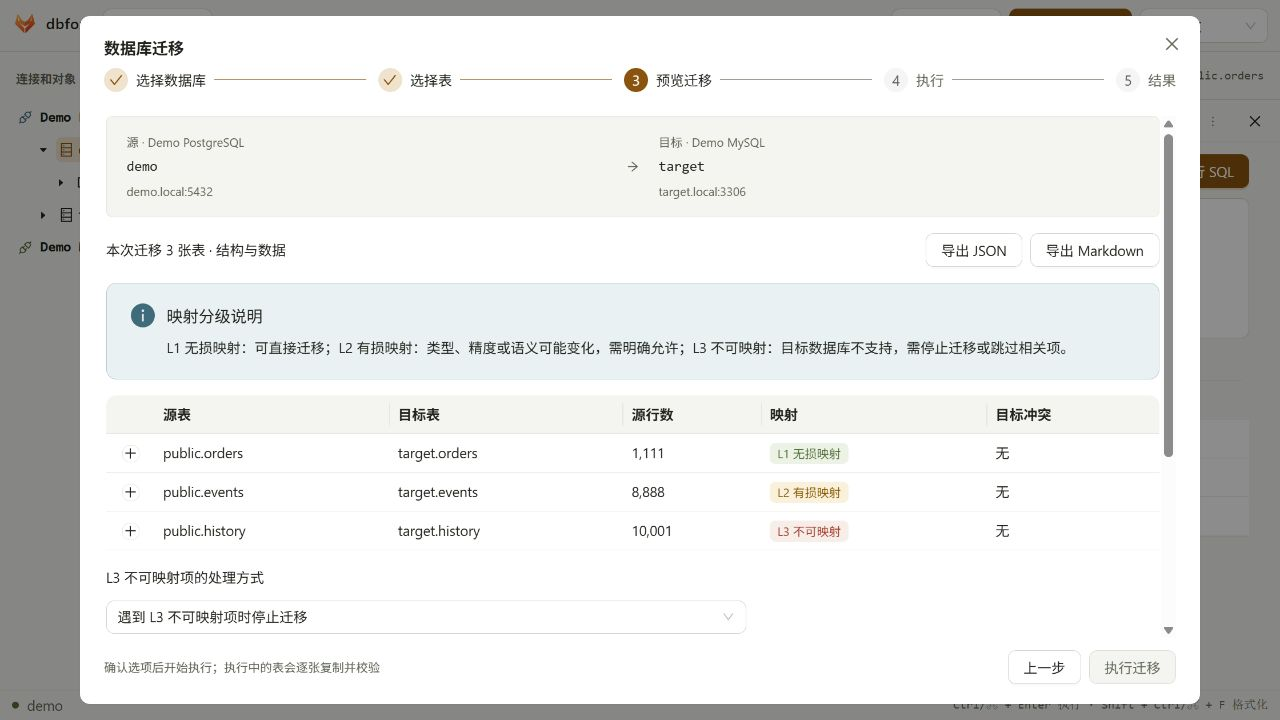
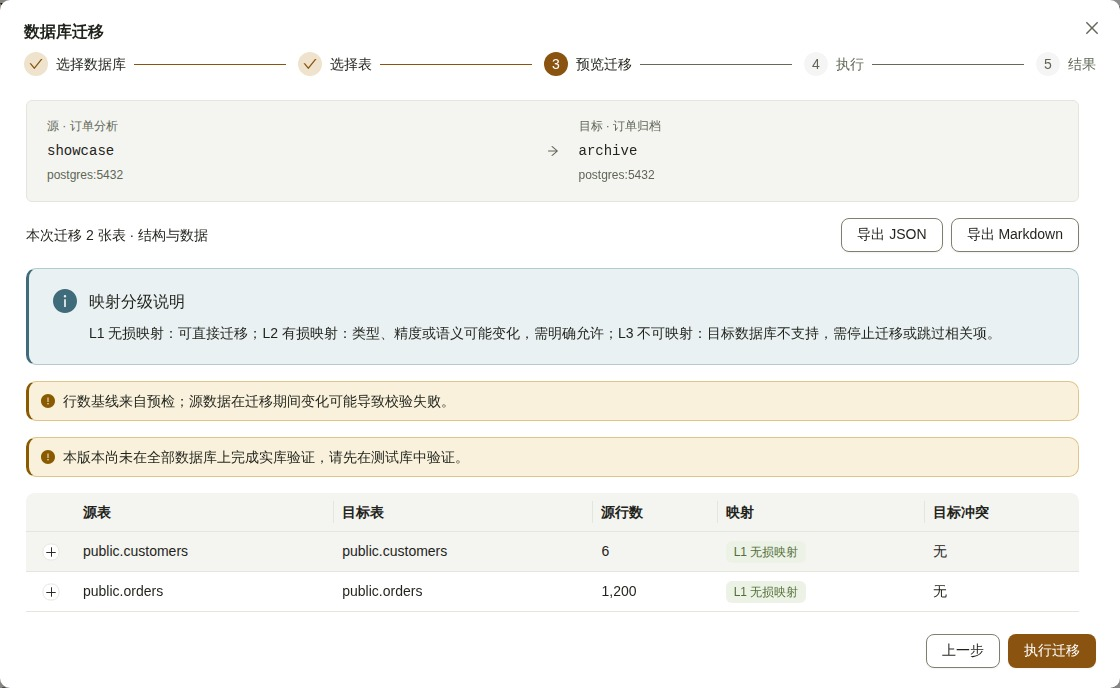
fix(web): publish refreshed screenshots and image previews
The published site still showed the previous product interface and opened
screenshots without a way to close them from the page.

- web: publish current screenshots and simplify bilingual captions
- web: enlarge detailed screenshots and improve text readability
- web: add closable previews with keyboard support and focus restoration

Generated from aibi 88afefe. All 26 published files match the validated
generator output. Site generation and three browser preview tests pass,
including both languages and the JavaScript-disabled fallback.

diff --git a/en/index.html b/en/index.html
@@ -18,6 +18,7 @@
   <link rel="icon" href="/dbfox-site/assets/logo.svg" type="image/svg+xml">
   <link rel="stylesheet" href="/dbfox-site/assets/theme.css">
   <link rel="stylesheet" href="/dbfox-site/assets/site.css">
+  <script src="/dbfox-site/assets/image-preview.js" defer></script>
 </head>
 <body>
   <a class="skip-link" href="#main">Skip to content</a>
@@ -28,41 +29,39 @@
       <a href="#databases">Databases</a>
       <a href="#mcp">MCP</a>
       <a class="language" href="/dbfox-site/" lang="zh-CN" hreflang="zh-CN">中文</a>
-      <a class="button small" href="#install">Get started <span aria-hidden="true">↗</span></a>
+      <a class="button small" href="#install">Get started</a>
     </nav>
   </header>
   <main id="main">
     <section class="hero wrap" aria-labelledby="hero-title">
-      <p class="eyebrow"><span class="status-dot" aria-hidden="true"></span>Your local workspace for SQL &amp; migrations</p>
       <div class="hero-copy">
         <h1 id="hero-title">Explore schemas.<br><span>Translate SQL. Plan migrations.</span></h1>
         <div class="hero-description">
           <p>Bring database objects, SQL dialects and migration plans into one workspace. Understand what changes before you run it.</p>
-          <div class="actions"><a class="button" href="#install">Get started <span aria-hidden="true">↗</span></a><a class="text-link" href="#features">Explore the workspace <span aria-hidden="true">↓</span></a></div>
-          <p class="fine">Local connections · Bilingual interface · MCP support</p>
+          <div class="actions"><a class="button" href="#install">Get started</a><a class="text-link" href="#features">Explore the workspace</a></div>
         </div>
       </div>
       <figure class="product-frame">
         <div class="frame-label"><span>Inside the workspace</span><span class="mono">SQL / DDL / MIGRATION</span></div>
         <a href="/dbfox-site/assets/workspace.jpg" aria-label="Open the full workspace screenshot"><img src="/dbfox-site/assets/workspace.jpg" width="1280" height="720" fetchpriority="high" alt="dbfox workspace with a PostgreSQL connection, SQL editor and a sample query result table."></a>
-        <figcaption>Product UI with synthetic demo data · captured 25 Oct 2026. Select an image to inspect it at full size.</figcaption>
+        <figcaption>Product UI with synthetic demo data. Select an image to inspect it at full size.</figcaption>
       </figure>
       <div class="database-strip" aria-label="Databases"><span><img class="db-icon" src="/dbfox-site/assets/db-postgres.svg" width="20" height="20" alt="">PostgreSQL</span><span><img class="db-icon" src="/dbfox-site/assets/db-mysql.svg" width="20" height="20" alt="">MySQL</span><span><img class="db-icon" src="/dbfox-site/assets/db-mariadb.svg" width="20" height="20" alt="">MariaDB</span><span><svg class="db-icon db-icon-generic" viewBox="0 0 24 24" width="20" height="20" aria-hidden="true" fill="none" stroke="currentColor" stroke-width="1.6"><ellipse cx="12" cy="5" rx="8" ry="3"/><path d="M4 5v14c0 1.7 3.6 3 8 3s8-1.3 8-3V5M4 12c0 1.7 3.6 3 8 3s8-1.3 8-3"/></svg>SQL Server</span><span><img class="db-icon" src="/dbfox-site/assets/db-oracle.svg" width="20" height="20" alt="">Oracle</span><span><svg class="db-icon db-icon-generic" viewBox="0 0 24 24" width="20" height="20" aria-hidden="true" fill="none" stroke="currentColor" stroke-width="1.6"><ellipse cx="12" cy="5" rx="8" ry="3"/><path d="M4 5v14c0 1.7 3.6 3 8 3s8-1.3 8-3V5M4 12c0 1.7 3.6 3 8 3s8-1.3 8-3"/></svg>Snowflake</span><span><img class="db-icon" src="/dbfox-site/assets/db-redshift.svg" width="20" height="20" alt="">Amazon Redshift</span><span><img class="db-icon" src="/dbfox-site/assets/db-clickhouse.svg" width="20" height="20" alt="">ClickHouse</span><span><img class="db-icon" src="/dbfox-site/assets/db-sqlite.svg" width="20" height="20" alt="">SQLite</span><span><img class="db-icon" src="/dbfox-site/assets/db-duckdb.svg" width="20" height="20" alt="">DuckDB</span><span><img class="db-icon" src="/dbfox-site/assets/db-duckdb.svg" width="20" height="20" alt="">DuckLake</span><span><img class="db-icon" src="/dbfox-site/assets/db-db2.svg" width="20" height="20" alt="">Db2</span><span><img class="db-icon" src="/dbfox-site/assets/db-mongodb.svg" width="20" height="20" alt="">MongoDB</span><span><img class="db-icon" src="/dbfox-site/assets/db-redis.svg" width="20" height="20" alt="">Redis</span><span><img class="db-icon" src="/dbfox-site/assets/db-elasticsearch.svg" width="20" height="20" alt="">Elasticsearch</span></div>
     </section>
 
     <section id="features" class="section wrap" aria-labelledby="features-title">
-      <div class="section-heading"><p class="eyebrow">01 / From discovery to execution</p><h2 id="features-title">A clearer path through cross-database work.</h2><p>For developers, DBAs and data engineers who need to understand a database, work across SQL dialects and review a migration before running it.</p></div>
+      <div class="section-heading"><h2 id="features-title">A clearer path through cross-database work.</h2><p>For developers, DBAs and data engineers who need to understand a database, work across SQL dialects and review a migration before running it.</p></div>
       <article class="feature-row">
-        <div><span class="step">01</span><h3>Find your way around a database.</h3><p>Browse connections, databases and objects in a single tree. Inspect DDL, run queries and page through large results without leaving your SQL workspace.</p><ul class="feature-list"><li>DDL for 12 SQL engines, plus MongoDB, Redis and Elasticsearch catalogs</li><li>Cursor-paged SQL results and native MongoDB and Redis commands</li></ul></div>
-        <figure class="detail-frame"><a href="/dbfox-site/assets/catalog.png" aria-label="Open the database browser screenshot"><img src="/dbfox-site/assets/catalog.png" width="1440" height="400" loading="lazy" alt="The dbfox object tree shows a demo PostgreSQL database, public schema and orders table next to the SQL editor."></a><figcaption>Object browser and SQL editor · demo fixture, 29 Oct 2026</figcaption></figure>
+        <div><h3>Find your way around a database.</h3><p>Browse connections, databases and objects in a single tree. Inspect DDL, run queries and page through large results without leaving your SQL workspace.</p><ul class="feature-list"><li>DDL for 12 SQL engines, plus MongoDB, Redis and Elasticsearch catalogs</li><li>Cursor-paged SQL results and native MongoDB and Redis commands</li></ul></div>
+        <figure class="detail-frame"><a href="/dbfox-site/assets/catalog.png" aria-label="Open the database browser screenshot"><img src="/dbfox-site/assets/catalog.png" width="720" height="440" loading="lazy" alt="The dbfox object tree shows a demo PostgreSQL database, public schema and orders table next to the SQL editor."></a><figcaption>Object browser and SQL editor with demo data</figcaption></figure>
       </article>
       <article class="feature-row">
-        <div><span class="step">02</span><h3>Understand what your SQL becomes.</h3><p>Convert SQL across ten dialects, from PostgreSQL and MySQL to SQL Server, Snowflake, Oracle and DuckDB. Inspect column lineage and compare structural changes side by side.</p><ul class="feature-list"><li>Conversion and analysis do not execute your SQL</li><li>Review warnings and unresolved lineage explicitly</li></ul></div>
-        <figure class="detail-frame"><a href="/dbfox-site/assets/sql-diff.png" aria-label="Open the SQL comparison screenshot"><img src="/dbfox-site/assets/sql-diff.png" width="1049" height="296" loading="lazy" alt="Side-by-side SQL comparison highlights IFNULL becoming COALESCE and DATE_FORMAT becoming TO_CHAR, with deletion and addition markers."></a><figcaption>SQL dialect conversion, with visible changes · 29 Oct 2026</figcaption></figure>
+        <div><h3>Understand what your SQL becomes.</h3><p>Convert SQL across ten dialects, from PostgreSQL and MySQL to SQL Server, Snowflake, Oracle and DuckDB. Inspect column lineage and compare structural changes side by side.</p><ul class="feature-list"><li>Conversion and analysis do not execute your SQL</li><li>Review warnings and unresolved lineage explicitly</li></ul></div>
+        <figure class="detail-frame"><a href="/dbfox-site/assets/sql-diff.png" aria-label="Open the SQL comparison screenshot"><img src="/dbfox-site/assets/sql-diff.png" width="1049" height="205" loading="lazy" alt="Side-by-side SQL comparison highlights IFNULL becoming COALESCE and DATE_FORMAT becoming TO_CHAR, with deletion and addition markers."></a><figcaption>SQL dialect conversion with visible changes</figcaption></figure>
       </article>
       <article class="feature-row">
-        <div><span class="step">03</span><h3>See the plan before the move.</h3><p>Choose source and target, select tables and run preflight. Review type mappings and target conflicts before migrating schema and data.</p><ul class="feature-list"><li>Mapping levels make conversion risks visible</li><li>Inspect the execution report and skipped objects</li></ul></div>
-        <figure class="detail-frame"><a href="/dbfox-site/assets/migration.jpg" aria-label="Open the migration preflight screenshot"><img src="/dbfox-site/assets/migration.jpg" width="1280" height="720" loading="lazy" alt="Migration preflight from demo PostgreSQL to MySQL with three tables and lossless, lossy and unmappable type mapping levels."></a><figcaption>Migration preflight · synthetic demo, 25 Oct 2026</figcaption></figure>
+        <div><h3>See the plan before the move.</h3><p>Choose source and target, select tables and run preflight. Review type mappings and target conflicts before migrating schema and data.</p><ul class="feature-list"><li>Mapping levels make conversion risks visible</li><li>Inspect the execution report and skipped objects</li></ul></div>
+        <figure class="detail-frame"><a href="/dbfox-site/assets/migration.jpg" aria-label="Open the migration preflight screenshot"><img src="/dbfox-site/assets/migration.jpg" width="1120" height="688" loading="lazy" alt="Migration preflight between two demo PostgreSQL databases with two tables, source row counts and lossless type mappings."></a><figcaption>Migration preflight with synthetic demo data</figcaption></figure>
       </article>
     </section>
 
@@ -93,16 +92,16 @@
     </div></section>
 
     <section id="mcp" class="section wrap mcp-section" aria-labelledby="mcp-title">
-      <div><p class="eyebrow">03 / A workspace for your AI tools, too</p><h2 id="mcp-title">Give your assistant context. Keep execution in your hands.</h2><p>Connect an MCP-compatible assistant to dbfox. Reuse saved connections for schema discovery, read-only queries, SQL conversion and migration planning.</p><a class="text-link" href="#mcp-install">MCP setup notes <span aria-hidden="true">↗</span></a></div>
-      <div class="mcp-panel"><div class="panel-heading"><span class="mono">MCP</span><span class="badge">15 read-only tools</span></div><ol><li><span class="mono">01</span>Explore schemas and inspect DDL</li><li><span class="mono">02</span>Query data and analyze SQL</li><li><span class="mono">03</span>Prepare a migration plan for review</li></ol><p class="fine">MCP does not expose write or migration execution tools. Database permissions remain the security boundary; use a read-only database account.</p></div>
+      <div><h2 id="mcp-title">Give your assistant context. Keep execution in your hands.</h2><p>Connect an MCP-compatible assistant to dbfox. Reuse saved connections for schema discovery, read-only queries, SQL conversion and migration planning.</p><a class="text-link" href="#mcp-install">MCP setup notes</a></div>
+      <div class="mcp-panel"><div class="panel-heading"><span class="mono">MCP</span><span class="badge">15 read-only tools</span></div><ol><li>Explore schemas and inspect DDL</li><li>Query data and analyze SQL</li><li>Prepare a migration plan for review</li></ol><p class="fine">MCP does not expose write or migration execution tools. Database permissions remain the security boundary; use a read-only database account.</p></div>
     </section>
 
     <section id="install" class="section install-section" aria-labelledby="install-title"><div class="wrap">
-      <p class="eyebrow">04 / Start locally</p><h2 id="install-title">Your databases. Your workspace.</h2><p class="install-intro">The desktop app connects to your databases locally. This website introduces the product; it does not connect to databases or run SQL.</p>
-      <div class="install-grid"><article><span class="step">01</span><h3>Install on Windows</h3><p>The desktop app is packaged as a Windows MSI. Install it, launch dbfox and choose your interface language.</p><p class="notice">A public installer is not available from this page yet. The download link will appear here after the release is verified.</p></article><article><span class="step">02</span><h3>Add a connection</h3><p>Choose a database engine and enter its connection details. Test the connection, open a database and inspect the object tree. Start with a read-only account.</p></article><article id="mcp-install"><span class="step">03</span><h3>Set up MCP separately</h3><p>MCP requires the standalone dbfox-mcp executable. If you have access to the source repository, build it with:</p><code class="command">cargo build -p dbfox-mcp --release</code><p class="fine">Point your MCP client at the built executable using stdio. The desktop MSI alone does not configure MCP; a public standalone download is not yet linked here.</p></article></div>
+      <h2 id="install-title">Your databases. Your workspace.</h2><p class="install-intro">The desktop app connects to your databases locally. This website introduces the product; it does not connect to databases or run SQL.</p>
+      <div class="install-grid"><article><h3>Install on Windows</h3><p>The desktop app is packaged as a Windows MSI. Install it, launch dbfox and choose your interface language.</p><p class="notice">A public installer is not available from this page yet. The download link will appear here after the release is verified.</p></article><article><h3>Add a connection</h3><p>Choose a database engine and enter its connection details. Test the connection, open a database and inspect the object tree. Start with a read-only account.</p></article><article id="mcp-install"><h3>Set up MCP separately</h3><p>MCP requires the standalone dbfox-mcp executable. If you have access to the source repository, build it with:</p><code class="command">cargo build -p dbfox-mcp --release</code><p class="fine">Point your MCP client at the built executable using stdio. The desktop MSI alone does not configure MCP; a public standalone download is not yet linked here.</p></article></div>
     </div></section>
 
-    <section class="section wrap faq" aria-labelledby="faq-title"><div><p class="eyebrow">05 / FAQ</p><h2 id="faq-title">Before you get started.</h2></div><div class="faq-list">
+    <section class="section wrap faq" aria-labelledby="faq-title"><div><h2 id="faq-title">Before you get started.</h2></div><div class="faq-list">
       <details><summary>Do I need a dbfox cloud account?</summary><p>No dbfox cloud account is required for the local workspace. You connect using your own database credentials. If you connect an external AI assistant, its own data handling and account requirements apply.</p></details>
       <details><summary>Can I run queries on every supported database?</summary><p>SQL runs on PostgreSQL, MySQL, MariaDB, SQL Server, SQLite, Snowflake, DuckDB, DuckLake, Oracle and Db2. Elasticsearch accepts read-only SQL and search requests; MongoDB and Redis run native commands. Redshift and ClickHouse support browsing, DDL, SQL conversion and migration. Cancelling a query does not undo statements that have already committed.</p></details>
       <details><summary>Does migration guarantee an identical result?</summary><p>No. Database engines differ in types and semantics. Inspect preflight mappings and warnings, test on non-production data and review the result report. dbfox does not promise real-time CDC or zero-downtime migration.</p></details>
@@ -110,6 +109,10 @@
       <details><summary>Where are the macOS and Linux installers?</summary><p>The current desktop packaging targets Windows MSI. This page does not offer verified macOS or Linux installers. Public Windows and standalone MCP downloads will be added when available.</p></details>
     </div></section>
   </main>
-  <footer class="footer wrap"><a class="brand" href="/dbfox-site/en/"><img src="/dbfox-site/assets/logo.svg" width="25" height="25" alt=""><span>dbfox.</span></a><p>A local workspace for cross-database work.</p><a href="/dbfox-site/" lang="zh-CN" hreflang="zh-CN">中文</a><a href="#main">Back to top ↑</a></footer>
+  <dialog class="image-preview" aria-label="Image preview">
+    <form method="dialog" class="image-preview-toolbar"><button class="button small" autofocus>Close</button></form>
+    <div class="image-preview-content"></div>
+  </dialog>
+  <footer class="footer wrap"><a class="brand" href="/dbfox-site/en/"><img src="/dbfox-site/assets/logo.svg" width="25" height="25" alt=""><span>dbfox.</span></a><p>A local workspace for cross-database work.</p><a href="/dbfox-site/" lang="zh-CN" hreflang="zh-CN">中文</a><a href="#main">Back to top</a></footer>
 </body>
 </html>

diff --git a/index.html b/index.html
@@ -18,6 +18,7 @@
   <link rel="icon" href="/dbfox-site/assets/logo.svg" type="image/svg+xml">
   <link rel="stylesheet" href="/dbfox-site/assets/theme.css">
   <link rel="stylesheet" href="/dbfox-site/assets/site.css">
+  <script src="/dbfox-site/assets/image-preview.js" defer></script>
 </head>
 <body>
   <a class="skip-link" href="#main">跳至正文</a>
@@ -28,41 +29,39 @@
       <a href="#databases">数据库支持</a>
       <a href="#mcp">MCP</a>
       <a class="language" href="/dbfox-site/en/" lang="en" hreflang="en">English</a>
-      <a class="button small" href="#install">安装与开始 <span aria-hidden="true">↗</span></a>
+      <a class="button small" href="#install">安装与开始</a>
     </nav>
   </header>
   <main id="main">
     <section class="hero wrap" aria-labelledby="hero-title">
-      <p class="eyebrow"><span class="status-dot" aria-hidden="true"></span>本地数据库工作台 · SQL 与迁移</p>
       <div class="hero-copy">
         <h1 id="hero-title">查看结构。<br><span>转换 SQL，规划迁移。</span></h1>
         <div class="hero-description">
           <p>把数据库对象、SQL 方言与迁移计划放在同一张工作台。浏览结构，读懂差异，在执行之前看清变化。</p>
-          <div class="actions"><a class="button" href="#install">安装与开始 <span aria-hidden="true">↗</span></a><a class="text-link" href="#features">了解工作台 <span aria-hidden="true">↓</span></a></div>
-          <p class="fine">本地连接 · 中英双语 · 支持 MCP</p>
+          <div class="actions"><a class="button" href="#install">安装与开始</a><a class="text-link" href="#features">了解工作台</a></div>
         </div>
       </div>
       <figure class="product-frame">
         <div class="frame-label"><span>工作台一览</span><span class="mono">SQL / DDL / MIGRATION</span></div>
         <a href="/dbfox-site/assets/workspace.jpg" aria-label="打开完整工作台截图"><img src="/dbfox-site/assets/workspace.jpg" width="1280" height="720" fetchpriority="high" alt="dbfox 工作台：PostgreSQL 连接、SQL 编辑器与示例查询结果表格。"></a>
-        <figcaption>产品界面与模拟演示数据 · 截于 2026 年 10 月 25 日。点击图片可查看原图。</figcaption>
+        <figcaption>产品界面与模拟演示数据。点击图片可查看原图。</figcaption>
       </figure>
       <div class="database-strip" aria-label="数据库支持"><span><img class="db-icon" src="/dbfox-site/assets/db-postgres.svg" width="20" height="20" alt="">PostgreSQL</span><span><img class="db-icon" src="/dbfox-site/assets/db-mysql.svg" width="20" height="20" alt="">MySQL</span><span><img class="db-icon" src="/dbfox-site/assets/db-mariadb.svg" width="20" height="20" alt="">MariaDB</span><span><svg class="db-icon db-icon-generic" viewBox="0 0 24 24" width="20" height="20" aria-hidden="true" fill="none" stroke="currentColor" stroke-width="1.6"><ellipse cx="12" cy="5" rx="8" ry="3"/><path d="M4 5v14c0 1.7 3.6 3 8 3s8-1.3 8-3V5M4 12c0 1.7 3.6 3 8 3s8-1.3 8-3"/></svg>SQL Server</span><span><img class="db-icon" src="/dbfox-site/assets/db-oracle.svg" width="20" height="20" alt="">Oracle</span><span><svg class="db-icon db-icon-generic" viewBox="0 0 24 24" width="20" height="20" aria-hidden="true" fill="none" stroke="currentColor" stroke-width="1.6"><ellipse cx="12" cy="5" rx="8" ry="3"/><path d="M4 5v14c0 1.7 3.6 3 8 3s8-1.3 8-3V5M4 12c0 1.7 3.6 3 8 3s8-1.3 8-3"/></svg>Snowflake</span><span><img class="db-icon" src="/dbfox-site/assets/db-redshift.svg" width="20" height="20" alt="">Amazon Redshift</span><span><img class="db-icon" src="/dbfox-site/assets/db-clickhouse.svg" width="20" height="20" alt="">ClickHouse</span><span><img class="db-icon" src="/dbfox-site/assets/db-sqlite.svg" width="20" height="20" alt="">SQLite</span><span><img class="db-icon" src="/dbfox-site/assets/db-duckdb.svg" width="20" height="20" alt="">DuckDB</span><span><img class="db-icon" src="/dbfox-site/assets/db-duckdb.svg" width="20" height="20" alt="">DuckLake</span><span><img class="db-icon" src="/dbfox-site/assets/db-db2.svg" width="20" height="20" alt="">Db2</span><span><img class="db-icon" src="/dbfox-site/assets/db-mongodb.svg" width="20" height="20" alt="">MongoDB</span><span><img class="db-icon" src="/dbfox-site/assets/db-redis.svg" width="20" height="20" alt="">Redis</span><span><img class="db-icon" src="/dbfox-site/assets/db-elasticsearch.svg" width="20" height="20" alt="">Elasticsearch</span></div>
     </section>
 
     <section id="features" class="section wrap" aria-labelledby="features-title">
-      <div class="section-heading"><p class="eyebrow">01 / 从结构探索到迁移执行</p><h2 id="features-title">跨数据库工作，从看清每一步开始。</h2><p>为开发者、DBA 和数据工程师准备：先理解数据库，再处理方言差异，最后审阅迁移计划。</p></div>
+      <div class="section-heading"><h2 id="features-title">跨数据库工作，从看清每一步开始。</h2><p>为开发者、DBA 和数据工程师准备：先理解数据库，再处理方言差异，最后审阅迁移计划。</p></div>
       <article class="feature-row">
-        <div><span class="step">01</span><h3>把结构放在手边。</h3><p>从连接、数据库到对象，在同一棵结构树中逐级浏览。在 SQL 工作区中查看 DDL、执行查询，并逐页浏览大结果集。</p><ul class="feature-list"><li>12 种 SQL 数据库的 DDL，以及 MongoDB、Redis 与 Elasticsearch 目录</li><li>按游标分页的 SQL 结果，以及 MongoDB 与 Redis 原生命令</li></ul></div>
-        <figure class="detail-frame"><a href="/dbfox-site/assets/catalog.png" aria-label="打开对象浏览截图"><img src="/dbfox-site/assets/catalog.png" width="1440" height="400" loading="lazy" alt="dbfox 对象树展示演示 PostgreSQL 数据库、public 模式和 orders 表，右侧为 SQL 编辑器。"></a><figcaption>对象浏览与 SQL 编辑器 · 演示数据，2026 年 10 月 29 日</figcaption></figure>
+        <div><h3>把结构放在手边。</h3><p>从连接、数据库到对象，在同一棵结构树中逐级浏览。在 SQL 工作区中查看 DDL、执行查询，并逐页浏览大结果集。</p><ul class="feature-list"><li>12 种 SQL 数据库的 DDL，以及 MongoDB、Redis 与 Elasticsearch 目录</li><li>按游标分页的 SQL 结果，以及 MongoDB 与 Redis 原生命令</li></ul></div>
+        <figure class="detail-frame"><a href="/dbfox-site/assets/catalog.png" aria-label="打开对象浏览截图"><img src="/dbfox-site/assets/catalog.png" width="720" height="440" loading="lazy" alt="dbfox 对象树展示演示 PostgreSQL 数据库、public 模式和 orders 表，右侧为 SQL 编辑器。"></a><figcaption>对象浏览与 SQL 编辑器，演示数据</figcaption></figure>
       </article>
       <article class="feature-row">
-        <div><span class="step">02</span><h3>转换之后，差异一目了然。</h3><p>在 PostgreSQL、MySQL、SQL Server、Snowflake、Oracle、DuckDB 等 10 种方言间转换 SQL，分析列血缘，并排审阅转换前后的结构变化。</p><ul class="feature-list"><li>转换与分析不会执行 SQL</li><li>明确呈现转换警告和未解析的血缘</li></ul></div>
-        <figure class="detail-frame"><a href="/dbfox-site/assets/sql-diff.png" aria-label="打开 SQL 差异截图"><img src="/dbfox-site/assets/sql-diff.png" width="1049" height="296" loading="lazy" alt="并排 SQL 差异：IFNULL 转为 COALESCE，DATE_FORMAT 转为 TO_CHAR，同时显示删除与新增标记。"></a><figcaption>SQL 方言转换与差异标记 · 2026 年 10 月 29 日</figcaption></figure>
+        <div><h3>转换之后，差异一目了然。</h3><p>在 PostgreSQL、MySQL、SQL Server、Snowflake、Oracle、DuckDB 等 10 种方言间转换 SQL，分析列血缘，并排审阅转换前后的结构变化。</p><ul class="feature-list"><li>转换与分析不会执行 SQL</li><li>明确呈现转换警告和未解析的血缘</li></ul></div>
+        <figure class="detail-frame"><a href="/dbfox-site/assets/sql-diff.png" aria-label="打开 SQL 差异截图"><img src="/dbfox-site/assets/sql-diff.png" width="1049" height="205" loading="lazy" alt="并排 SQL 差异：IFNULL 转为 COALESCE，DATE_FORMAT 转为 TO_CHAR，同时显示删除与新增标记。"></a><figcaption>SQL 方言转换与差异标记</figcaption></figure>
       </article>
       <article class="feature-row">
-        <div><span class="step">03</span><h3>先看清计划，再执行迁移。</h3><p>选择来源与目标数据库、勾选表并运行预检。在迁移结构和数据前，审阅类型映射、目标冲突与处理策略。</p><ul class="feature-list"><li>映射分级让转换风险可见</li><li>查看执行报告与跳过的对象</li></ul></div>
-        <figure class="detail-frame"><a href="/dbfox-site/assets/migration.jpg" aria-label="打开迁移预检截图"><img src="/dbfox-site/assets/migration.jpg" width="1280" height="720" loading="lazy" alt="演示 PostgreSQL 到 MySQL 的迁移预检，列出三张表及无损、有损、不可映射三级类型映射。"></a><figcaption>迁移预检 · 模拟演示数据，2026 年 10 月 25 日</figcaption></figure>
+        <div><h3>先看清计划，再执行迁移。</h3><p>选择来源与目标数据库、勾选表并运行预检。在迁移结构和数据前，审阅类型映射、目标冲突与处理策略。</p><ul class="feature-list"><li>映射分级让转换风险可见</li><li>查看执行报告与跳过的对象</li></ul></div>
+        <figure class="detail-frame"><a href="/dbfox-site/assets/migration.jpg" aria-label="打开迁移预检截图"><img src="/dbfox-site/assets/migration.jpg" width="1120" height="688" loading="lazy" alt="两个演示 PostgreSQL 数据库之间的迁移预检，展示两张表、源行数和无损类型映射。"></a><figcaption>迁移预检，模拟演示数据</figcaption></figure>
       </article>
     </section>
 
@@ -93,16 +92,16 @@
     </div></section>
 
     <section id="mcp" class="section wrap mcp-section" aria-labelledby="mcp-title">
-      <div><p class="eyebrow">03 / 也让 AI 助手读懂数据库</p><h2 id="mcp-title">让助手理解结构，由你掌握执行。</h2><p>将支持 MCP 的 AI 助手连接到 dbfox。复用已保存的连接，进行结构探索、只读查询、SQL 转换与迁移规划。</p><a class="text-link" href="#mcp-install">MCP 安装说明 <span aria-hidden="true">↗</span></a></div>
-      <div class="mcp-panel"><div class="panel-heading"><span class="mono">MCP</span><span class="badge">15 个只读工具</span></div><ol><li><span class="mono">01</span>探索数据库结构与 DDL</li><li><span class="mono">02</span>只读查询与 SQL 分析</li><li><span class="mono">03</span>生成迁移计划，供你审阅</li></ol><p class="fine">MCP 不提供写入或迁移执行工具。数据库权限仍是安全边界，建议使用只读数据库账号。</p></div>
+      <div><h2 id="mcp-title">让助手理解结构，由你掌握执行。</h2><p>将支持 MCP 的 AI 助手连接到 dbfox。复用已保存的连接，进行结构探索、只读查询、SQL 转换与迁移规划。</p><a class="text-link" href="#mcp-install">MCP 安装说明</a></div>
+      <div class="mcp-panel"><div class="panel-heading"><span class="mono">MCP</span><span class="badge">15 个只读工具</span></div><ol><li>探索数据库结构与 DDL</li><li>只读查询与 SQL 分析</li><li>生成迁移计划，供你审阅</li></ol><p class="fine">MCP 不提供写入或迁移执行工具。数据库权限仍是安全边界，建议使用只读数据库账号。</p></div>
     </section>
 
     <section id="install" class="section install-section" aria-labelledby="install-title"><div class="wrap">
-      <p class="eyebrow">04 / 在本地开始</p><h2 id="install-title">你的数据库，你的工作台。</h2><p class="install-intro">桌面应用在本地连接你的数据库。本网站用于产品介绍，不连接数据库，也不执行 SQL。</p>
-      <div class="install-grid"><article><span class="step">01</span><h3>安装 Windows 桌面版</h3><p>桌面应用使用 Windows MSI 安装包。安装后启动 dbfox，选择界面语言即可开始。</p><p class="notice">本站暂未提供公开安装包。完成版本与下载验证后，将在此提供下载入口。</p></article><article><span class="step">02</span><h3>添加数据库连接</h3><p>选择数据库类型并填写连接信息。测试连接后打开数据库，从对象树查看结构。建议先使用只读账号。</p></article><article id="mcp-install"><span class="step">03</span><h3>单独配置 MCP</h3><p>MCP 需要独立的 dbfox-mcp 可执行文件。如已获得源码仓库访问权限，可执行以下命令构建：</p><code class="command">cargo build -p dbfox-mcp --release</code><p class="fine">在 MCP 客户端中将 stdio 命令指向构建后的可执行文件。安装桌面 MSI 不会自动配置 MCP；本站尚未提供独立程序下载。</p></article></div>
+      <h2 id="install-title">你的数据库，你的工作台。</h2><p class="install-intro">桌面应用在本地连接你的数据库。本网站用于产品介绍，不连接数据库，也不执行 SQL。</p>
+      <div class="install-grid"><article><h3>安装 Windows 桌面版</h3><p>桌面应用使用 Windows MSI 安装包。安装后启动 dbfox，选择界面语言即可开始。</p><p class="notice">本站暂未提供公开安装包。完成版本与下载验证后，将在此提供下载入口。</p></article><article><h3>添加数据库连接</h3><p>选择数据库类型并填写连接信息。测试连接后打开数据库，从对象树查看结构。建议先使用只读账号。</p></article><article id="mcp-install"><h3>单独配置 MCP</h3><p>MCP 需要独立的 dbfox-mcp 可执行文件。如已获得源码仓库访问权限，可执行以下命令构建：</p><code class="command">cargo build -p dbfox-mcp --release</code><p class="fine">在 MCP 客户端中将 stdio 命令指向构建后的可执行文件。安装桌面 MSI 不会自动配置 MCP；本站尚未提供独立程序下载。</p></article></div>
     </div></section>
 
-    <section class="section wrap faq" aria-labelledby="faq-title"><div><p class="eyebrow">05 / FAQ</p><h2 id="faq-title">开始之前，你可能想了解。</h2></div><div class="faq-list">
+    <section class="section wrap faq" aria-labelledby="faq-title"><div><h2 id="faq-title">开始之前，你可能想了解。</h2></div><div class="faq-list">
       <details><summary>需要注册 dbfox 云账号吗？</summary><p>本地工作台无需 dbfox 云账号，使用你自己的数据库凭据连接。若接入外部 AI 助手，其账号要求和数据处理规则由对应服务决定。</p></details>
       <details><summary>所有支持的数据库都能执行查询吗？</summary><p>SQL 查询支持 PostgreSQL、MySQL、MariaDB、SQL Server、SQLite、Snowflake、DuckDB、DuckLake、Oracle 和 Db2。Elasticsearch 支持只读 SQL 与检索请求；MongoDB 和 Redis 执行原生命令。Redshift 与 ClickHouse 支持对象和 DDL 浏览、SQL 方言转换与迁移。取消查询不会撤销已经提交的语句。</p></details>
       <details><summary>迁移是否保证结果完全一致？</summary><p>不同数据库在类型和语义上存在差异。请审阅预检映射与警告，先用非生产数据验证，再查看结果报告。dbfox 不承诺实时 CDC 或零停机迁移。</p></details>
@@ -110,6 +109,10 @@
       <details><summary>有 macOS 和 Linux 安装包吗？</summary><p>当前桌面打包流程面向 Windows MSI。本站未提供经过验证的 macOS 或 Linux 安装包。公开 Windows 安装包和独立 MCP 程序可用后会补充下载入口。</p></details>
     </div></section>
   </main>
-  <footer class="footer wrap"><a class="brand" href="/dbfox-site/"><img src="/dbfox-site/assets/logo.svg" width="25" height="25" alt=""><span>dbfox.</span></a><p>本地工作台，连接跨数据库的每一步。</p><a href="/dbfox-site/en/" lang="en" hreflang="en">English</a><a href="#main">回到顶部 ↑</a></footer>
+  <dialog class="image-preview" aria-label="图片预览">
+    <form method="dialog" class="image-preview-toolbar"><button class="button small" autofocus>关闭</button></form>
+    <div class="image-preview-content"></div>
+  </dialog>
+  <footer class="footer wrap"><a class="brand" href="/dbfox-site/"><img src="/dbfox-site/assets/logo.svg" width="25" height="25" alt=""><span>dbfox.</span></a><p>本地工作台，连接跨数据库的每一步。</p><a href="/dbfox-site/en/" lang="en" hreflang="en">English</a><a href="#main">回到顶部</a></footer>
 </body>
 </html>

diff --git a/assets/site.css b/assets/site.css
@@ -23,29 +23,27 @@ p { color: var(--ink-muted); }
 .header { min-height: 96px; display: flex; align-items: center; justify-content: space-between; gap: 24px; border-bottom: 1px solid var(--rule); }
 .brand { display: inline-flex; align-items: center; gap: 10px; color: var(--ink); text-decoration: none; font-size: 27px; font-weight: 700; letter-spacing: -.04em; }
 .brand-dot { color: var(--accent); }
-nav { display: flex; align-items: center; gap: 28px; font-size: 14px; }
+nav { display: flex; align-items: center; gap: 28px; font-size: 16px; }
 nav a { padding-block: 8px; text-decoration: none; }
 .language { border-left: 1px solid var(--rule); padding-left: 24px; }
-.button { display: inline-flex; align-items: center; justify-content: center; gap: 24px; padding: 13px 24px; min-height: 48px; border: 1px solid var(--accent); border-radius: 6px; color: var(--raised); background: var(--accent); font-size: 15px; font-weight: 600; text-decoration: none; }
+.button { display: inline-flex; align-items: center; justify-content: center; gap: 24px; padding: 13px 24px; min-height: 48px; border: 1px solid var(--accent); border-radius: 6px; color: var(--raised); background: var(--accent); font-size: 16px; font-weight: 600; text-decoration: none; }
 .button:hover { background: var(--accent-hover); border-color: var(--accent-hover); color: var(--raised); }
 .button:active { transform: translateY(1px); }
-.button.small { min-height: 42px; padding: 8px 17px; font-size: 14px; }
+.button.small { min-height: 42px; padding: 8px 17px; font-size: 16px; }
 .hero { padding-top: 68px; }
-.eyebrow { display: flex; align-items: center; gap: 9px; margin-bottom: 24px; font-size: 12px; font-weight: 600; letter-spacing: .12em; text-transform: uppercase; color: var(--accent); }
-.status-dot { width: 7px; height: 7px; background: var(--accent); border-radius: 50%; }
 .hero-copy { display: grid; grid-template-columns: 1.35fr 1fr; gap: 64px; align-items: end; margin-bottom: 44px; }
 h1 { font-size: clamp(38px, 4.8vw, 64px); letter-spacing: -.055em; font-weight: 650; }
 h1 span { color: var(--accent); }
 .hero-description > p:first-child { max-width: 460px; font-size: 16px; }
 .actions { display: flex; flex-wrap: wrap; align-items: center; gap: 24px; margin: 24px 0 14px; }
-.text-link { display: inline-flex; align-items: center; gap: 16px; min-height: 44px; font-size: 14px; font-weight: 600; }
-.fine, figcaption { font-size: 12px; line-height: 1.7; color: var(--ink-muted); }
-.mono, .step { font-family: var(--mono); }
+.text-link { display: inline-flex; align-items: center; gap: 16px; min-height: 44px; font-size: 16px; font-weight: 600; }
+.fine, figcaption { font-size: 14px; line-height: 1.7; color: var(--ink-muted); }
+.mono { font-family: var(--mono); }
 .product-frame { overflow: hidden; border: 1px solid var(--rule); border-radius: 8px; background: var(--raised); box-shadow: var(--shadow); }
 .product-frame img { width: 100%; }
-.frame-label { display: flex; justify-content: space-between; gap: 16px; padding: 12px 20px; border-bottom: 1px solid var(--rule); font-size: 12px; color: var(--ink-muted); background: var(--paper); }
+.frame-label { display: flex; justify-content: space-between; gap: 16px; padding: 12px 20px; border-bottom: 1px solid var(--rule); font-size: 14px; color: var(--ink-muted); background: var(--paper); }
 figcaption { padding: 12px 18px; border-top: 1px solid var(--rule-soft); }
-.database-strip { display: grid; grid-template-columns: repeat(5, minmax(0, 1fr)); gap: 20px 32px; padding: 32px 0; border-bottom: 1px solid var(--rule); font-family: var(--mono); font-size: 14px; font-weight: 600; }
+.database-strip { display: grid; grid-template-columns: repeat(5, minmax(0, 1fr)); gap: 20px 32px; padding: 32px 0; border-bottom: 1px solid var(--rule); font-family: var(--mono); font-size: 16px; font-weight: 600; }
 .database-strip span { display: flex; align-items: center; gap: 10px; }
 img.db-icon, .db-icon { display: inline-block; flex: none; width: 20px; height: 20px; object-fit: contain; }
 .db-icon-generic { color: var(--ink-muted); }
@@ -53,18 +51,26 @@ img.db-icon, .db-icon { display: inline-block; flex: none; width: 20px; height: 
 .section-heading { max-width: 700px; margin-bottom: 52px; }
 .section-heading h2 { margin-bottom: 20px; }
 .section-heading > p:last-child { max-width: 620px; }
-.feature-row { display: grid; grid-template-columns: 1fr 1.7fr; gap: 64px; align-items: center; padding: 44px 0; border-top: 1px solid var(--rule); }
-.step { color: var(--accent); font-size: 12px; }
-.feature-list { padding: 0; margin: 20px 0 0; list-style: none; font-size: 14px; color: var(--ink-muted); }
+.feature-row { display: grid; grid-template-columns: minmax(0, 1fr) minmax(0, 1.6fr); gap: 64px; align-items: center; padding: 44px 0; border-top: 1px solid var(--rule); }
+.feature-row + .feature-row { grid-template-columns: minmax(0, 1fr); gap: 24px; }
+.feature-row + .feature-row > div { max-width: 700px; }
+.feature-list { padding: 0; margin: 20px 0 0; list-style: none; font-size: 16px; color: var(--ink-muted); }
 .feature-list li { padding-left: 17px; position: relative; margin-top: 8px; }
 .feature-list li::before { content: '·'; position: absolute; left: 0; color: var(--accent); font-weight: 700; }
 .detail-frame { border: 1px solid var(--rule); border-radius: 6px; background: var(--raised); overflow: hidden; }
 .detail-frame img { width: 100%; }
+.image-preview { width: min(1440px, calc(100% - 32px)); max-height: calc(100dvh - 32px); padding: 0; border: 1px solid var(--rule); border-radius: 10px; background: var(--raised); color: var(--ink); }
+.image-preview::backdrop { background: var(--ink); opacity: .65; }
+.image-preview-toolbar { display: flex; justify-content: flex-end; padding: 12px 16px; border-bottom: 1px solid var(--rule-soft); }
+.image-preview-toolbar button { cursor: pointer; font-family: var(--sans); }
+.image-preview-content { display: grid; place-items: center; padding: 16px; }
+.image-preview-content img { width: auto; max-width: 100%; height: auto; max-height: calc(100dvh - 136px); object-fit: contain; }
+body:has(.image-preview[open]) { overflow: hidden; }
 .database-section { background: var(--paper); border-block: 1px solid var(--rule); }
 .table-scroll { overflow-x: auto; }
-table { width: 100%; border-collapse: collapse; text-align: left; font-size: 14px; }
+table { width: 100%; border-collapse: collapse; text-align: left; font-size: 16px; }
 th, td { padding: 12px 24px; border-bottom: 1px solid var(--rule); }
-thead th { font-weight: 500; font-size: 12px; color: var(--ink-muted); }
+thead th { font-weight: 500; font-size: 14px; color: var(--ink-muted); }
 tbody th { font-family: var(--mono); font-weight: 600; white-space: nowrap; }
 tbody th .db-icon { width: 18px; height: 18px; margin-right: 12px; vertical-align: -4px; }
 tbody td { color: var(--ok); }
@@ -76,25 +82,25 @@ tbody td.muted { color: var(--ink-muted); }
 .mcp-panel { background: var(--raised); border: 1px solid var(--rule); border-radius: 8px; padding: 28px; }
 .panel-heading { display: flex; justify-content: space-between; align-items: center; padding-bottom: 20px; border-bottom: 1px solid var(--rule); }
 .panel-heading > .mono { font-size: 22px; font-weight: 600; }
-.badge { color: var(--accent); background: var(--accent-soft); padding: 4px 10px; border: 1px solid var(--accent-border); border-radius: 4px; font-size: 12px; }
+.badge { color: var(--accent); background: var(--accent-soft); padding: 4px 10px; border: 1px solid var(--accent-border); border-radius: 4px; font-size: 14px; }
 .mcp-panel ol { list-style: none; padding: 0; margin: 8px 0 24px; }
-.mcp-panel li { display: flex; align-items: baseline; gap: 20px; padding-top: 20px; font-size: 14px; }
-.mcp-panel li span { color: var(--ink-muted); font-size: 11px; }
+.mcp-panel li { display: flex; align-items: baseline; gap: 20px; padding-top: 20px; font-size: 16px; }
+.mcp-panel li span { color: var(--ink-muted); font-size: 14px; }
 .install-section { border-block: 1px solid var(--rule); background: var(--paper); }
 .install-intro { max-width: 680px; margin-top: 24px; }
 .install-grid { display: grid; grid-template-columns: repeat(3, minmax(0, 1fr)); margin-top: 48px; gap: 40px; }
 .install-grid article { border-top: 1px solid var(--rule); padding-top: 20px; }
 .install-grid h3 { font-size: 21px; }
-.install-grid p { font-size: 14px; }
+.install-grid p { font-size: 16px; }
 .install-grid .notice { margin-top: 16px; color: var(--accent); }
-.command { display: block; white-space: pre-wrap; overflow-wrap: anywhere; margin-block: 16px; padding: 12px; background: var(--raised); border: 1px solid var(--rule); border-radius: 4px; font: 12px/1.7 var(--mono); }
-.install-grid .fine { font-size: 12px; }
+.command { display: block; white-space: pre-wrap; overflow-wrap: anywhere; margin-block: 16px; padding: 12px; background: var(--raised); border: 1px solid var(--rule); border-radius: 4px; font: 14px/1.7 var(--mono); }
+.install-grid .fine { font-size: 14px; }
 .faq { display: grid; grid-template-columns: 1fr 1.8fr; gap: 80px; }
 details { border-top: 1px solid var(--rule); padding: 20px 0; }
 details:last-child { border-bottom: 1px solid var(--rule); }
 summary { cursor: pointer; font-weight: 600; padding-right: 16px; }
-details p { margin-top: 16px; font-size: 14px; }
-.footer { display: flex; flex-wrap: wrap; align-items: center; gap: 24px; padding-block: 28px; border-top: 1px solid var(--rule); font-size: 12px; }
+details p { margin-top: 16px; font-size: 16px; }
+.footer { display: flex; flex-wrap: wrap; align-items: center; gap: 24px; padding-block: 28px; border-top: 1px solid var(--rule); font-size: 14px; }
 .footer p { margin-right: auto; }
 .footer .brand { font-size: 22px; }
 .footer > a:not(.brand) { padding-block: 8px; }
@@ -123,14 +129,14 @@ details p { margin-top: 16px; font-size: 14px; }
   .hero { padding-top: 40px; }
   h1 { font-size: clamp(34px, 7.6vw, 46px); }
   .hero-copy { gap: 24px; margin-bottom: 32px; }
-  .eyebrow { font-size: 11px; margin-bottom: 20px; }
-  .frame-label { padding: 10px 12px; font-size: 10px; }
+  .eyebrow { font-size: 14px; margin-bottom: 20px; }
+  .frame-label { padding: 10px 12px; font-size: 14px; }
   .frame-label .mono { display: none; }
-  .database-strip { grid-template-columns: repeat(2, minmax(0, 1fr)); font-size: 12px; gap: 14px 16px; padding-block: 24px; }
+  .database-strip { grid-template-columns: repeat(2, minmax(0, 1fr)); font-size: 14px; gap: 14px 16px; padding-block: 24px; }
   .feature-row, .mcp-section, .faq, .install-grid { grid-template-columns: 1fr; }
   .feature-row { padding-block: 32px; gap: 28px; }
   .section-heading { margin-bottom: 36px; }
-  th, td { padding: 14px 12px; font-size: 12px; }
+  th, td { padding: 14px 12px; font-size: 14px; }
   table { min-width: 520px; }
   .mcp-section, .faq { gap: 32px; }
   .install-grid { gap: 32px; margin-top: 32px; }

diff --git a/assets/image-preview.js b/assets/image-preview.js
@@ -1,0 +1,28 @@
+const preview = document.querySelector('.image-preview');
+const content = preview.querySelector('.image-preview-content');
+let trigger;
+
+for (const link of document.querySelectorAll('.product-frame a, .detail-frame a')) {
+  link.addEventListener('click', (event) => {
+    if (event.button !== 0 || event.ctrlKey || event.metaKey || event.shiftKey || event.altKey
+      || typeof preview.showModal !== 'function') return;
+    event.preventDefault();
+    const image = link.querySelector('img').cloneNode();
+    image.src = link.href;
+    image.loading = 'eager';
+    content.replaceChildren(image);
+    trigger = link;
+    preview.showModal();
+  });
+}
+
+preview.addEventListener('click', (event) => {
+  if (event.target !== preview) return;
+  const bounds = preview.getBoundingClientRect();
+  if (event.clientX < bounds.left || event.clientX > bounds.right
+    || event.clientY < bounds.top || event.clientY > bounds.bottom) preview.close();
+});
+preview.addEventListener('close', () => {
+  content.replaceChildren();
+  trigger?.focus({ preventScroll: true });
+});

diff --git a/assets/theme.css b/assets/theme.css
@@ -8,6 +8,7 @@
   --ink-muted: #5f6556;
   --ink-faint: #636a59;
   --rule: #d0d4c8;
+  --control-border: #7b806f;
   --rule-soft: #e3e6dc;
   --accent: #8a5310;
   --accent-hover: #6f410b;
